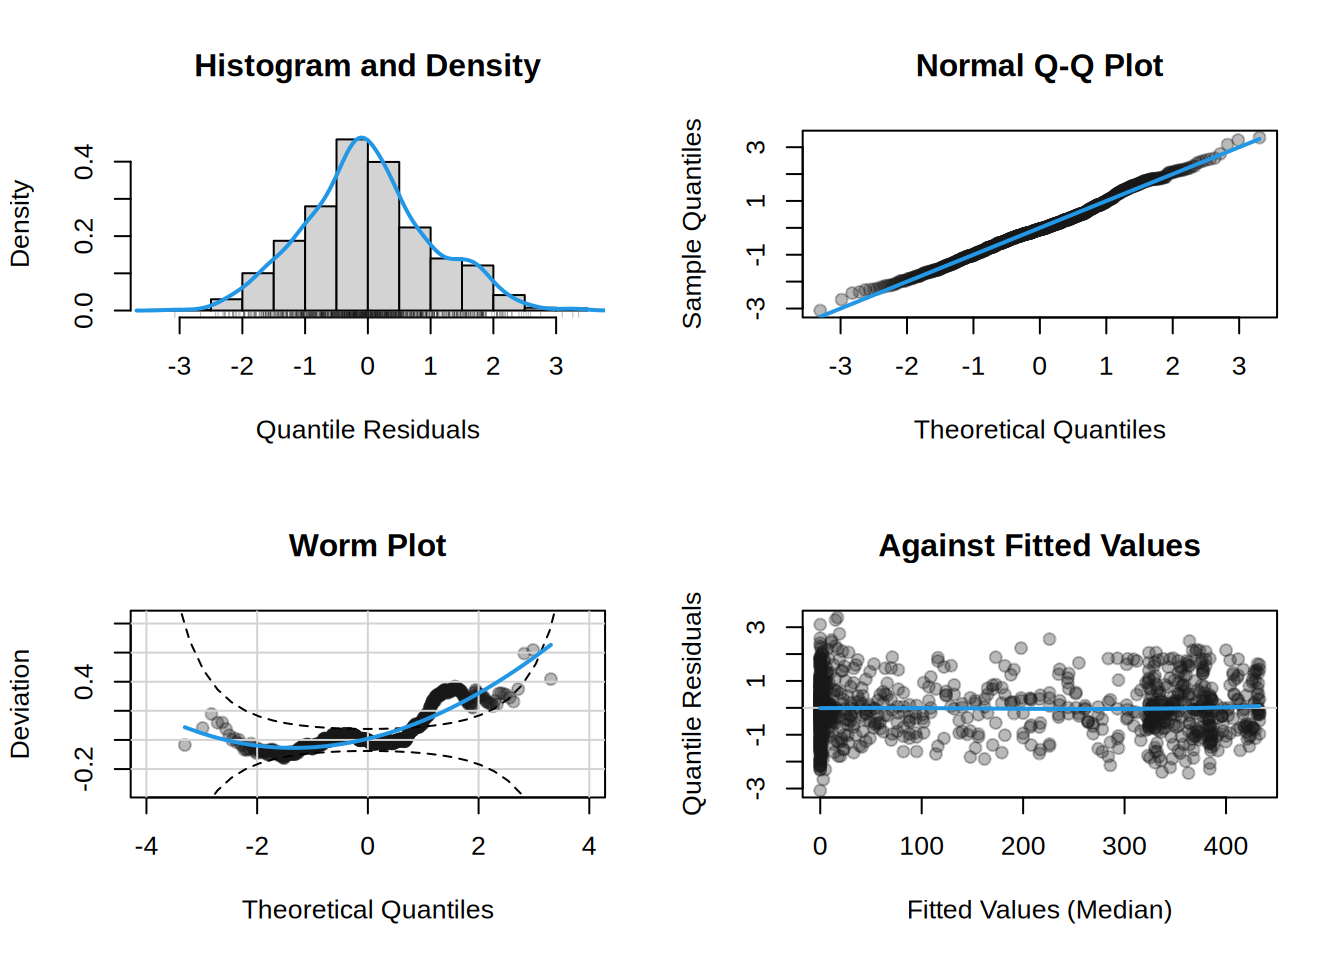
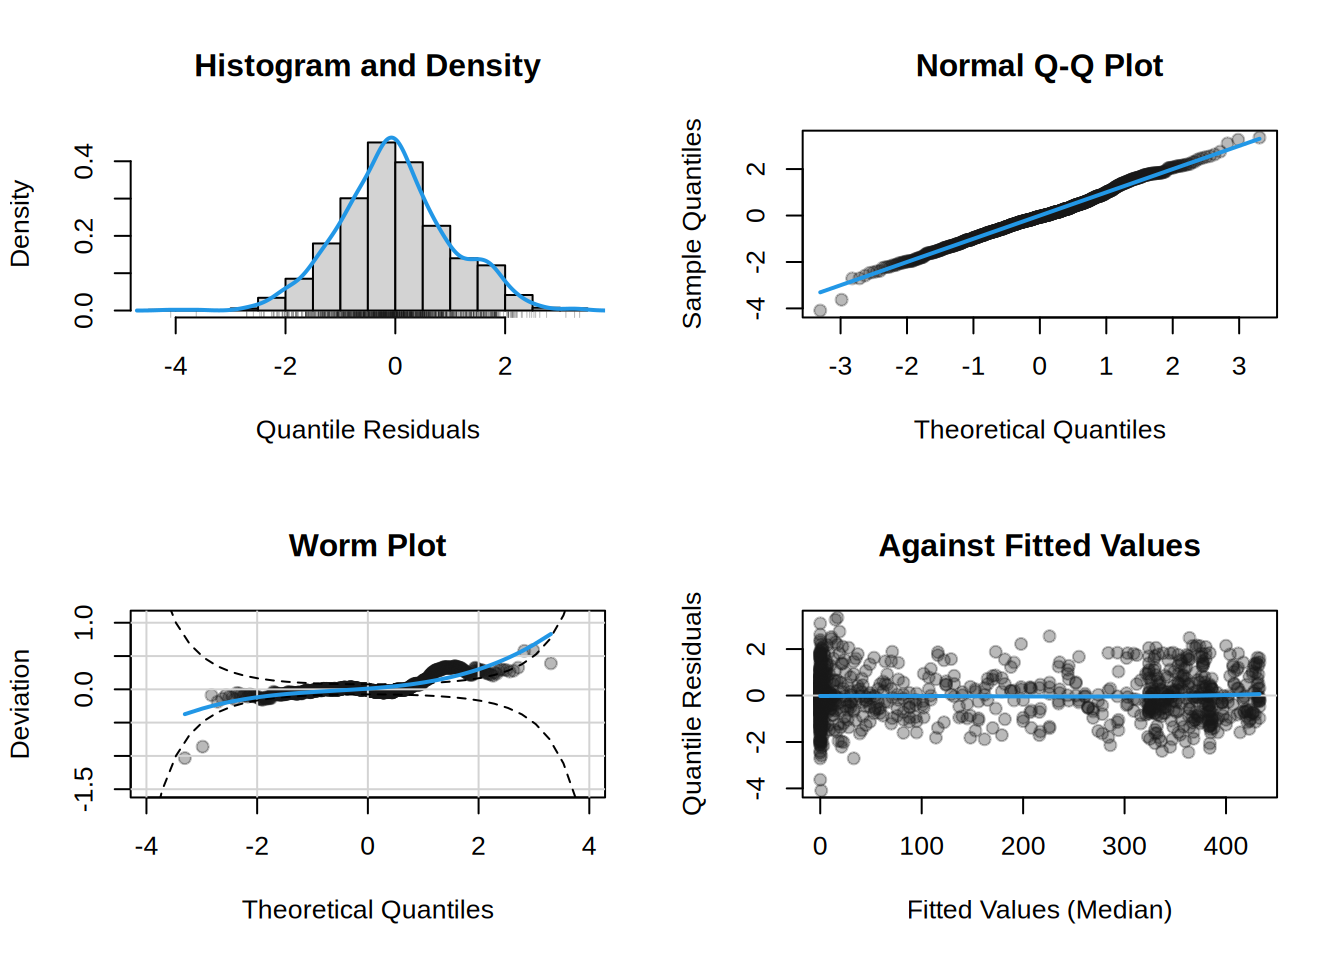
Deploying to gh-pages from @ gamlss-dev/gamlss2@b3e298621d6986cc67520b30d86766fb7080b422 🚀

diff --git a/vignettes/families.html b/vignettes/families.html
@@ -135,7 +135,7 @@ div.csl-indent {
 <meta property="og:image" content="https://gamlss-dev.github.io/gamlss2/vignettes/families_files/figure-html/unnamed-chunk-5-1.png">
 <meta property="og:site_name" content="gamlss2">
 <meta property="og:image:height" content="768">
-<meta property="og:image:width" content="960">
+<meta property="og:image:width" content="1152">
 </head>
 
 <body class="nav-fixed quarto-light">
@@ -408,49 +408,67 @@ div.csl-indent {
 <span id="cb6-9"><a href="#cb6-9" aria-hidden="true" tabindex="-1"></a>    <span class="st">"pdf"</span> <span class="ot">=</span> <span class="cf">function</span>(par, y, <span class="at">log =</span> <span class="cn">FALSE</span>, ...) {</span>
 <span id="cb6-10"><a href="#cb6-10" aria-hidden="true" tabindex="-1"></a>      <span class="fu">dnorm</span>(y, <span class="at">mean =</span> par<span class="sc">$</span>mu, <span class="at">sd =</span> par<span class="sc">$</span>sigma, <span class="at">log =</span> log)</span>
 <span id="cb6-11"><a href="#cb6-11" aria-hidden="true" tabindex="-1"></a>    },</span>
-<span id="cb6-12"><a href="#cb6-12" aria-hidden="true" tabindex="-1"></a>    <span class="st">"type"</span> <span class="ot">=</span> <span class="st">"continuous"</span></span>
-<span id="cb6-13"><a href="#cb6-13" aria-hidden="true" tabindex="-1"></a>  )</span>
-<span id="cb6-14"><a href="#cb6-14" aria-hidden="true" tabindex="-1"></a></span>
-<span id="cb6-15"><a href="#cb6-15" aria-hidden="true" tabindex="-1"></a>  <span class="fu">class</span>(fam) <span class="ot">&lt;-</span> <span class="st">"gamlss2.family"</span></span>
-<span id="cb6-16"><a href="#cb6-16" aria-hidden="true" tabindex="-1"></a>  <span class="fu">return</span>(fam)</span>
-<span id="cb6-17"><a href="#cb6-17" aria-hidden="true" tabindex="-1"></a>}</span></code></pre></div><button title="Copy to Clipboard" class="code-copy-button"><i class="bi"></i></button></div>
+<span id="cb6-12"><a href="#cb6-12" aria-hidden="true" tabindex="-1"></a>    <span class="st">"cdf"</span> <span class="ot">=</span> <span class="cf">function</span>(par, y, ...) {</span>
+<span id="cb6-13"><a href="#cb6-13" aria-hidden="true" tabindex="-1"></a>      <span class="fu">pnorm</span>(y, <span class="at">mean =</span> par<span class="sc">$</span>mu, <span class="at">sd =</span> par<span class="sc">$</span>sigma, ...)</span>
+<span id="cb6-14"><a href="#cb6-14" aria-hidden="true" tabindex="-1"></a>    },</span>
+<span id="cb6-15"><a href="#cb6-15" aria-hidden="true" tabindex="-1"></a>    <span class="st">"quantile"</span> <span class="ot">=</span> <span class="cf">function</span>(p, par) {</span>
+<span id="cb6-16"><a href="#cb6-16" aria-hidden="true" tabindex="-1"></a>      <span class="fu">qnorm</span>(p, <span class="at">mean =</span> par<span class="sc">$</span>mu, <span class="at">sd =</span> par<span class="sc">$</span>sigma)</span>
+<span id="cb6-17"><a href="#cb6-17" aria-hidden="true" tabindex="-1"></a>    },</span>
+<span id="cb6-18"><a href="#cb6-18" aria-hidden="true" tabindex="-1"></a>    <span class="st">"random"</span> <span class="ot">=</span> <span class="cf">function</span>(n, par) {</span>
+<span id="cb6-19"><a href="#cb6-19" aria-hidden="true" tabindex="-1"></a>      <span class="fu">rnorm</span>(n, <span class="at">mean =</span> par<span class="sc">$</span>mu, <span class="at">sd =</span> par<span class="sc">$</span>sigma)</span>
+<span id="cb6-20"><a href="#cb6-20" aria-hidden="true" tabindex="-1"></a>    },</span>
+<span id="cb6-21"><a href="#cb6-21" aria-hidden="true" tabindex="-1"></a>    <span class="st">"type"</span> <span class="ot">=</span> <span class="st">"continuous"</span></span>
+<span id="cb6-22"><a href="#cb6-22" aria-hidden="true" tabindex="-1"></a>  )</span>
+<span id="cb6-23"><a href="#cb6-23" aria-hidden="true" tabindex="-1"></a></span>
+<span id="cb6-24"><a href="#cb6-24" aria-hidden="true" tabindex="-1"></a>  <span class="fu">class</span>(fam) <span class="ot">&lt;-</span> <span class="st">"gamlss2.family"</span></span>
+<span id="cb6-25"><a href="#cb6-25" aria-hidden="true" tabindex="-1"></a>  <span class="fu">return</span>(fam)</span>
+<span id="cb6-26"><a href="#cb6-26" aria-hidden="true" tabindex="-1"></a>}</span></code></pre></div><button title="Copy to Clipboard" class="code-copy-button"><i class="bi"></i></button></div>
 </div>
 <p>Note that the <code>score</code> and <code>hessian</code> elements are omitted and approximated numerically during estimation.</p>
 <p>The following is a small example using the new <code>Normal</code> family with different link functions. We now compare two models, one using an identity link (default) and one using a flexible <code>softplus</code> link.</p>
 <div class="cell">
-<div class="code-copy-outer-scaffold"><div class="sourceCode cell-code" id="cb7"><pre class="sourceCode r code-with-copy"><code class="sourceCode r"><span id="cb7-1"><a href="#cb7-1" aria-hidden="true" tabindex="-1"></a><span class="do">## load the abdominal circumference data</span></span>
-<span id="cb7-2"><a href="#cb7-2" aria-hidden="true" tabindex="-1"></a><span class="fu">data</span>(<span class="st">"abdom"</span>, <span class="at">package =</span> <span class="st">"gamlss.data"</span>)</span>
+<div class="code-copy-outer-scaffold"><div class="sourceCode cell-code" id="cb7"><pre class="sourceCode r code-with-copy"><code class="sourceCode r"><span id="cb7-1"><a href="#cb7-1" aria-hidden="true" tabindex="-1"></a><span class="do">## load data</span></span>
+<span id="cb7-2"><a href="#cb7-2" aria-hidden="true" tabindex="-1"></a><span class="fu">data</span>(<span class="st">"SpirometryUS"</span>)</span>
 <span id="cb7-3"><a href="#cb7-3" aria-hidden="true" tabindex="-1"></a>     </span>
-<span id="cb7-4"><a href="#cb7-4" aria-hidden="true" tabindex="-1"></a><span class="do">## specify the model Formula</span></span>
-<span id="cb7-5"><a href="#cb7-5" aria-hidden="true" tabindex="-1"></a>f <span class="ot">&lt;-</span> y <span class="sc">~</span> <span class="fu">s</span>(x) <span class="sc">|</span> <span class="fu">s</span>(x)</span>
-<span id="cb7-6"><a href="#cb7-6" aria-hidden="true" tabindex="-1"></a>     </span>
-<span id="cb7-7"><a href="#cb7-7" aria-hidden="true" tabindex="-1"></a><span class="do">## estimate models</span></span>
-<span id="cb7-8"><a href="#cb7-8" aria-hidden="true" tabindex="-1"></a>m1 <span class="ot">&lt;-</span> <span class="fu">gamlss2</span>(f, <span class="at">data =</span> abdom, <span class="at">family =</span> <span class="fu">Normal</span>(<span class="at">mu.link =</span> <span class="st">"identity"</span>))</span></code></pre></div><button title="Copy to Clipboard" class="code-copy-button"><i class="bi"></i></button></div>
+<span id="cb7-4"><a href="#cb7-4" aria-hidden="true" tabindex="-1"></a><span class="do">## subset for female</span></span>
+<span id="cb7-5"><a href="#cb7-5" aria-hidden="true" tabindex="-1"></a>d <span class="ot">&lt;-</span> <span class="fu">subset</span>(SpirometryUS, gender <span class="sc">==</span> <span class="st">"female"</span>)</span>
+<span id="cb7-6"><a href="#cb7-6" aria-hidden="true" tabindex="-1"></a></span>
+<span id="cb7-7"><a href="#cb7-7" aria-hidden="true" tabindex="-1"></a><span class="do">## specify the model Formula</span></span>
+<span id="cb7-8"><a href="#cb7-8" aria-hidden="true" tabindex="-1"></a>f <span class="ot">&lt;-</span> fev1 <span class="sc">~</span> <span class="fu">s</span>(age) <span class="sc">|</span> <span class="fu">s</span>(age)</span>
+<span id="cb7-9"><a href="#cb7-9" aria-hidden="true" tabindex="-1"></a>     </span>
+<span id="cb7-10"><a href="#cb7-10" aria-hidden="true" tabindex="-1"></a><span class="do">## estimate models</span></span>
+<span id="cb7-11"><a href="#cb7-11" aria-hidden="true" tabindex="-1"></a>m1 <span class="ot">&lt;-</span> <span class="fu">gamlss2</span>(f, <span class="at">data =</span> d, <span class="at">family =</span> <span class="fu">Normal</span>(<span class="at">mu.link =</span> <span class="st">"identity"</span>))</span></code></pre></div><button title="Copy to Clipboard" class="code-copy-button"><i class="bi"></i></button></div>
 <div class="cell-output cell-output-stdout">
-<pre><code>GAMLSS-RS iteration  1: Global Deviance = 4785.9328 eps = 0.999867     
-GAMLSS-RS iteration  2: Global Deviance = 4784.9286 eps = 0.000209     
-GAMLSS-RS iteration  3: Global Deviance = 4784.9275 eps = 0.000000     </code></pre>
+<pre><code>GAMLSS-RS iteration  1: Global Deviance = 9836.1849 eps = 0.865843     
+GAMLSS-RS iteration  2: Global Deviance = 9836.1847 eps = 0.000000     </code></pre>
 </div>
-<div class="code-copy-outer-scaffold"><div class="sourceCode cell-code" id="cb9"><pre class="sourceCode r code-with-copy"><code class="sourceCode r"><span id="cb9-1"><a href="#cb9-1" aria-hidden="true" tabindex="-1"></a>m2 <span class="ot">&lt;-</span> <span class="fu">gamlss2</span>(f, <span class="at">data =</span> abdom, <span class="at">family =</span> <span class="fu">Normal</span>(<span class="at">mu.link =</span> softplus))</span></code></pre></div><button title="Copy to Clipboard" class="code-copy-button"><i class="bi"></i></button></div>
+<div class="code-copy-outer-scaffold"><div class="sourceCode cell-code" id="cb9"><pre class="sourceCode r code-with-copy"><code class="sourceCode r"><span id="cb9-1"><a href="#cb9-1" aria-hidden="true" tabindex="-1"></a>m2 <span class="ot">&lt;-</span> <span class="fu">gamlss2</span>(f, <span class="at">data =</span> d, <span class="at">family =</span> <span class="fu">Normal</span>(<span class="at">mu.link =</span> softplus))</span></code></pre></div><button title="Copy to Clipboard" class="code-copy-button"><i class="bi"></i></button></div>
 <div class="cell-output cell-output-stdout">
-<pre><code>GAMLSS-RS iteration  1: Global Deviance = 4786.2809 eps = 0.999866     
-GAMLSS-RS iteration  2: Global Deviance = 4786.2618 eps = 0.000003     </code></pre>
+<pre><code>GAMLSS-RS iteration  1: Global Deviance = 9779.127 eps = 0.795981     
+GAMLSS-RS iteration  2: Global Deviance = 9779.127 eps = 0.000000     </code></pre>
 </div>
 </div>
 <p>The fitted means are visualized with</p>
 <div class="cell" data-layout-align="center">
 <div class="code-copy-outer-scaffold"><div class="sourceCode cell-code" id="cb11"><pre class="sourceCode r code-with-copy"><code class="sourceCode r"><span id="cb11-1"><a href="#cb11-1" aria-hidden="true" tabindex="-1"></a><span class="fu">par</span>(<span class="at">mar =</span> <span class="fu">c</span>(<span class="dv">4</span>, <span class="dv">4</span>, <span class="dv">1</span>, <span class="dv">1</span>))</span>
-<span id="cb11-2"><a href="#cb11-2" aria-hidden="true" tabindex="-1"></a><span class="fu">plot</span>(y <span class="sc">~</span> x, <span class="at">data =</span> abdom, <span class="at">pch =</span> <span class="dv">19</span>,</span>
-<span id="cb11-3"><a href="#cb11-3" aria-hidden="true" tabindex="-1"></a>  <span class="at">col =</span> <span class="fu">rgb</span>(<span class="fl">0.1</span>, <span class="fl">0.1</span>, <span class="fl">0.1</span>, <span class="at">alpha =</span> <span class="fl">0.3</span>))</span>
-<span id="cb11-4"><a href="#cb11-4" aria-hidden="true" tabindex="-1"></a><span class="fu">lines</span>(abdom<span class="sc">$</span>x, <span class="fu">mean</span>(m1), <span class="at">col =</span> <span class="dv">2</span>, <span class="at">lwd =</span> <span class="dv">5</span>)</span>
-<span id="cb11-5"><a href="#cb11-5" aria-hidden="true" tabindex="-1"></a><span class="fu">lines</span>(abdom<span class="sc">$</span>x, <span class="fu">mean</span>(m2), <span class="at">col =</span> <span class="dv">4</span>, <span class="at">lwd =</span> <span class="dv">2</span>)</span>
-<span id="cb11-6"><a href="#cb11-6" aria-hidden="true" tabindex="-1"></a><span class="fu">legend</span>(<span class="st">"topleft"</span>,</span>
-<span id="cb11-7"><a href="#cb11-7" aria-hidden="true" tabindex="-1"></a>  <span class="at">legend =</span> <span class="fu">c</span>(<span class="st">"Identity"</span>, <span class="st">"Softplus"</span>),</span>
-<span id="cb11-8"><a href="#cb11-8" aria-hidden="true" tabindex="-1"></a>  <span class="at">col =</span> <span class="fu">c</span>(<span class="dv">2</span>, <span class="dv">4</span>), <span class="at">lwd =</span> <span class="dv">2</span>, <span class="at">bty =</span> <span class="st">"n"</span>)</span></code></pre></div><button title="Copy to Clipboard" class="code-copy-button"><i class="bi"></i></button></div>
+<span id="cb11-2"><a href="#cb11-2" aria-hidden="true" tabindex="-1"></a></span>
+<span id="cb11-3"><a href="#cb11-3" aria-hidden="true" tabindex="-1"></a><span class="fu">plot</span>(fev1 <span class="sc">~</span> age, <span class="at">data =</span> d, <span class="at">pch =</span> <span class="dv">19</span>,</span>
+<span id="cb11-4"><a href="#cb11-4" aria-hidden="true" tabindex="-1"></a>  <span class="at">col =</span> <span class="fu">rgb</span>(<span class="fl">0.1</span>, <span class="fl">0.1</span>, <span class="fl">0.1</span>, <span class="at">alpha =</span> <span class="fl">0.3</span>))</span>
+<span id="cb11-5"><a href="#cb11-5" aria-hidden="true" tabindex="-1"></a></span>
+<span id="cb11-6"><a href="#cb11-6" aria-hidden="true" tabindex="-1"></a>q1 <span class="ot">&lt;-</span> <span class="fu">quantile</span>(m1, <span class="at">probs =</span> <span class="fu">c</span>(<span class="fl">0.025</span>, <span class="fl">0.5</span>, <span class="fl">0.975</span>))</span>
+<span id="cb11-7"><a href="#cb11-7" aria-hidden="true" tabindex="-1"></a>q2 <span class="ot">&lt;-</span> <span class="fu">quantile</span>(m2, <span class="at">probs =</span> <span class="fu">c</span>(<span class="fl">0.025</span>, <span class="fl">0.5</span>, <span class="fl">0.975</span>))</span>
+<span id="cb11-8"><a href="#cb11-8" aria-hidden="true" tabindex="-1"></a></span>
+<span id="cb11-9"><a href="#cb11-9" aria-hidden="true" tabindex="-1"></a>i <span class="ot">&lt;-</span> <span class="fu">order</span>(d<span class="sc">$</span>age)</span>
+<span id="cb11-10"><a href="#cb11-10" aria-hidden="true" tabindex="-1"></a><span class="fu">matlines</span>(d<span class="sc">$</span>age[i], q1[i, ], <span class="at">col =</span> <span class="dv">2</span>, <span class="at">lwd =</span> <span class="dv">5</span>)</span>
+<span id="cb11-11"><a href="#cb11-11" aria-hidden="true" tabindex="-1"></a><span class="fu">matlines</span>(d<span class="sc">$</span>age[i], q2[i, ], <span class="at">col =</span> <span class="dv">4</span>, <span class="at">lwd =</span> <span class="dv">2</span>)</span>
+<span id="cb11-12"><a href="#cb11-12" aria-hidden="true" tabindex="-1"></a></span>
+<span id="cb11-13"><a href="#cb11-13" aria-hidden="true" tabindex="-1"></a><span class="fu">legend</span>(<span class="st">"topleft"</span>,</span>
+<span id="cb11-14"><a href="#cb11-14" aria-hidden="true" tabindex="-1"></a>  <span class="at">legend =</span> <span class="fu">c</span>(<span class="st">"Identity"</span>, <span class="st">"Softplus"</span>),</span>
+<span id="cb11-15"><a href="#cb11-15" aria-hidden="true" tabindex="-1"></a>  <span class="at">col =</span> <span class="fu">c</span>(<span class="dv">2</span>, <span class="dv">4</span>), <span class="at">lwd =</span> <span class="dv">2</span>, <span class="at">bty =</span> <span class="st">"n"</span>)</span></code></pre></div><button title="Copy to Clipboard" class="code-copy-button"><i class="bi"></i></button></div>
 <div class="cell-output-display">
 <div class="quarto-figure quarto-figure-center">
 <figure class="figure">
-<p><img src="families_files/figure-html/unnamed-chunk-5-1.png" class="img-fluid quarto-figure quarto-figure-center figure-img" width="480"></p>
+<p><img src="families_files/figure-html/unnamed-chunk-5-1.png" class="img-fluid quarto-figure quarto-figure-center figure-img" style="width:80.0%"></p>
 </figure>
 </div>
 </div>

diff --git a/vignettes/firststeps.html b/vignettes/firststeps.html
@@ -347,7 +347,7 @@ GAMLSS-RS iteration 15: Global Deviance = 64836.5691 eps = 0.000009     </code><
 <div class="cell">
 <div class="code-copy-outer-scaffold"><div class="sourceCode cell-code" id="cb12"><pre class="sourceCode r code-with-copy"><code class="sourceCode r"><span id="cb12-1"><a href="#cb12-1" aria-hidden="true" tabindex="-1"></a><span class="fu">round</span>(b2<span class="sc">$</span>elapsed)</span></code></pre></div><button title="Copy to Clipboard" class="code-copy-button"><i class="bi"></i></button></div>
 <div class="cell-output cell-output-stdout">
-<pre><code>[1] 5</code></pre>
+<pre><code>[1] 4</code></pre>
 </div>
 </div>
 <p>seconds of computation time, yielding a similar deviance (small differences arise due to differences in smoothing parameter optimization). In many applications, it is desirable to use the same predictor structure for all distribution parameters. In <code>gamlss</code>, this requires specifying identical formulas separately via <code>sigma.formula</code>, <code>nu.formula</code>, and <code>tau.formula</code>, which can be tedious. In <code>gamlss2</code>, this is simplified using “<code>.</code>”</p>
@@ -377,7 +377,7 @@ GAMLSS-RS iteration 15: Global Deviance = 64572.4692 eps = 0.000009     </code><
 <div class="cell">
 <div class="code-copy-outer-scaffold"><div class="sourceCode cell-code" id="cb16"><pre class="sourceCode r code-with-copy"><code class="sourceCode r"><span id="cb16-1"><a href="#cb16-1" aria-hidden="true" tabindex="-1"></a><span class="fu">round</span>(b3<span class="sc">$</span>elapsed)</span></code></pre></div><button title="Copy to Clipboard" class="code-copy-button"><i class="bi"></i></button></div>
 <div class="cell-output cell-output-stdout">
-<pre><code>[1] 8</code></pre>
+<pre><code>[1] 6</code></pre>
 </div>
 </div>
 <p>seconds. After estimation, results can be inspected using the <code>summary()</code> method for both packages. Using <code>plot()</code> in <code>gamlss</code> produces standard residual diagnostic plots, whereas in <code>gamlss2</code></p>

diff --git a/man/gamlss2.html b/man/gamlss2.html
@@ -803,7 +803,7 @@ edf     7.8749     3.4060        7.7046
 *--------
 n = 116 df =  20.99 res.df =  95.01
 Deviance = 899.5552 Null Dev. Red. = 16.94%
-AIC = 941.5263 elapsed =  0.77sec</code></pre>
+AIC = 941.5263 elapsed =  0.58sec</code></pre>
 </div>
 <div class="code-copy-outer-scaffold"><div class="sourceCode cell-code" id="cb6"><pre class="sourceCode r code-with-copy"><code class="sourceCode r"><span id="cb6-1"><a href="#cb6-1" aria-hidden="true" tabindex="-1"></a><span class="do">## plot parameter-specific effects</span></span>
 <span id="cb6-2"><a href="#cb6-2" aria-hidden="true" tabindex="-1"></a><span class="fu">plot</span>(m1, <span class="at">which =</span> <span class="st">"effects"</span>)</span></code></pre></div><button title="Copy to Clipboard" class="code-copy-button"><i class="bi"></i></button></div>
@@ -924,7 +924,7 @@ edf     6.3823        6.2095
 *--------
 n = 1057 df =  14.59 res.df =  1042.41
 Deviance = 10150.8818 Null Dev. Red. = 12.62%
-AIC = 10180.0654 elapsed =  0.15sec</code></pre>
+AIC = 10180.0654 elapsed =  0.12sec</code></pre>
 </div>
 <div class="code-copy-outer-scaffold"><div class="sourceCode cell-code" id="cb16"><pre class="sourceCode r code-with-copy"><code class="sourceCode r"><span id="cb16-1"><a href="#cb16-1" aria-hidden="true" tabindex="-1"></a><span class="do">## effect plots</span></span>
 <span id="cb16-2"><a href="#cb16-2" aria-hidden="true" tabindex="-1"></a><span class="fu">plot</span>(m2)</span></code></pre></div><button title="Copy to Clipboard" class="code-copy-button"><i class="bi"></i></button></div>

diff --git a/man/OL.html b/man/OL.html
@@ -754,7 +754,7 @@ Signif. codes:  0 '***' 0.001 '**' 0.01 '*' 0.05 '.' 0.1 ' ' 1
 *--------
 n = 72 df =  9 res.df =  63
 Deviance = 3479.1493 Null Dev. Red. = -2099.21%
-AIC = 3497.1493 elapsed =  0.04sec</code></pre>
+AIC = 3497.1493 elapsed =  0.03sec</code></pre>
 </div>
 <div class="code-copy-outer-scaffold"><div class="sourceCode cell-code" id="cb7"><pre class="sourceCode r code-with-copy"><code class="sourceCode r"><span id="cb7-1"><a href="#cb7-1" aria-hidden="true" tabindex="-1"></a><span class="do">## compare coefficients</span></span>
 <span id="cb7-2"><a href="#cb7-2" aria-hidden="true" tabindex="-1"></a><span class="fu">coef</span>(m1)</span></code></pre></div><button title="Copy to Clipboard" class="code-copy-button"><i class="bi"></i></button></div>
